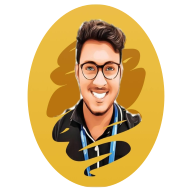
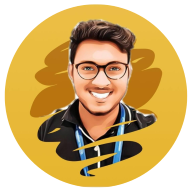
Removed # and resized png

diff --git a/src/containers/Main.js b/src/containers/Main.js
@@ -1,5 +1,5 @@
 import React, { Component } from "react";
-import { Route, Switch, HashRouter } from "react-router-dom";
+import { Route, Switch, BrowserRouter } from "react-router-dom";
 import Home from "../pages/home/HomeComponent";
 import Splash from "../pages/splash/Splash";
 import Education from "../pages/education/EducationComponent";
@@ -16,7 +16,7 @@ export default class Main extends Component {
     if (settings.isSplash) {
       return (
         <div>
-          <HashRouter basename="/">
+          <BrowserRouter basename="/">
             <Switch>
               <Route
                 path="/"
@@ -67,13 +67,13 @@ export default class Main extends Component {
                 )}
               />
             </Switch>
-          </HashRouter>
+          </BrowserRouter>
         </div>
       );
     } else {
       return (
         <div>
-          <HashRouter basename="/">
+          <BrowserRouter basename="/">
             <Switch>
               <Route
                 path="/"
@@ -125,7 +125,7 @@ export default class Main extends Component {
                 )}
               />
             </Switch>
-          </HashRouter>
+          </BrowserRouter>
         </div>
       );
     }

diff --git a/src/portfolio.js b/src/portfolio.js
@@ -64,12 +64,6 @@ const socialMediaLinks = [
     backgroundColor: "#D14836", // Reference https://simpleicons.org/?q=gmail
   },
   {
-    name: "Twitter",
-    link: "https://twitter.com/anurodh97",
-    fontAwesomeIcon: "fa-twitter", // Reference https://fontawesome.com/icons/twitter?style=brands
-    backgroundColor: "#1DA1F2", // Reference https://simpleicons.org/?q=twitter
-  },
-  {
     name: "Facebook",
     link: "https://www.facebook.com/anurodhmohapatra/",
     fontAwesomeIcon: "fa-facebook-f", // Reference https://fontawesome.com/icons/facebook-f?style=brands

diff --git a/src/containers/skills/SkillSection.js b/src/containers/skills/SkillSection.js
@@ -28,10 +28,6 @@ class SkillSection extends Component {
             <div className="skills-main-div">
               <Fade left duration={2000}>
                 <div className="skills-image-div">
-                  {/* <img
-                    alt="Ashutosh is Analysing Data"
-                    src={require(`../../assests/images/${skill.imagePath}`)}
-                  ></img> */}
                   <GetSkillSvg fileName={skill.fileName} theme={theme} />
                 </div>
               </Fade>
